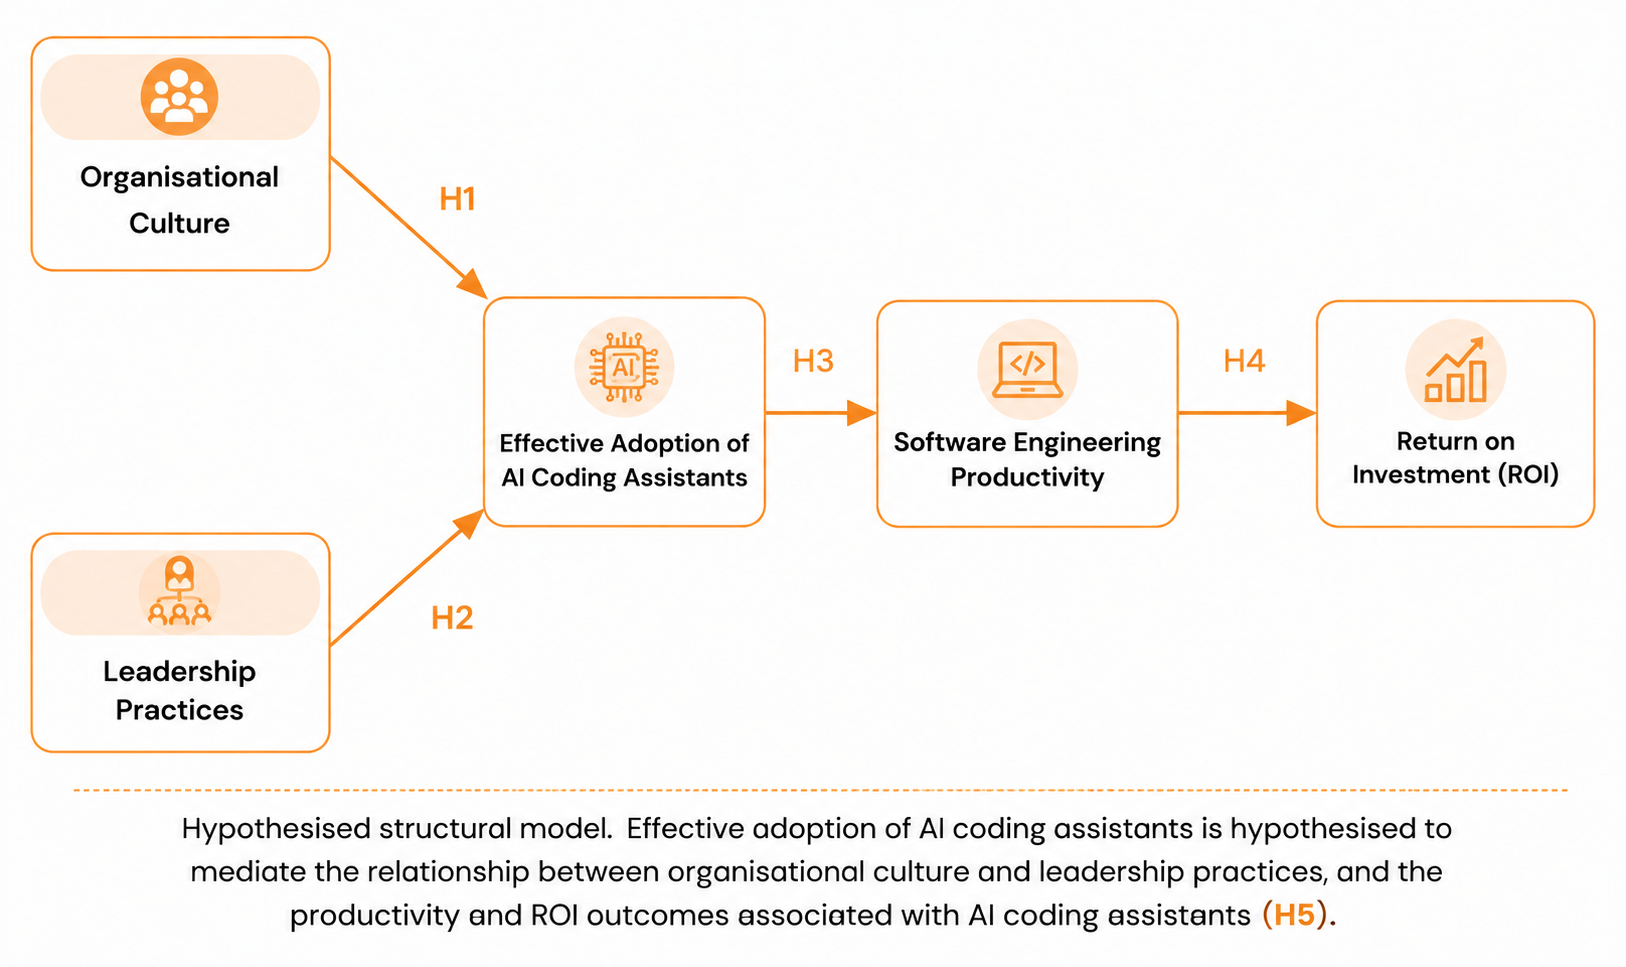
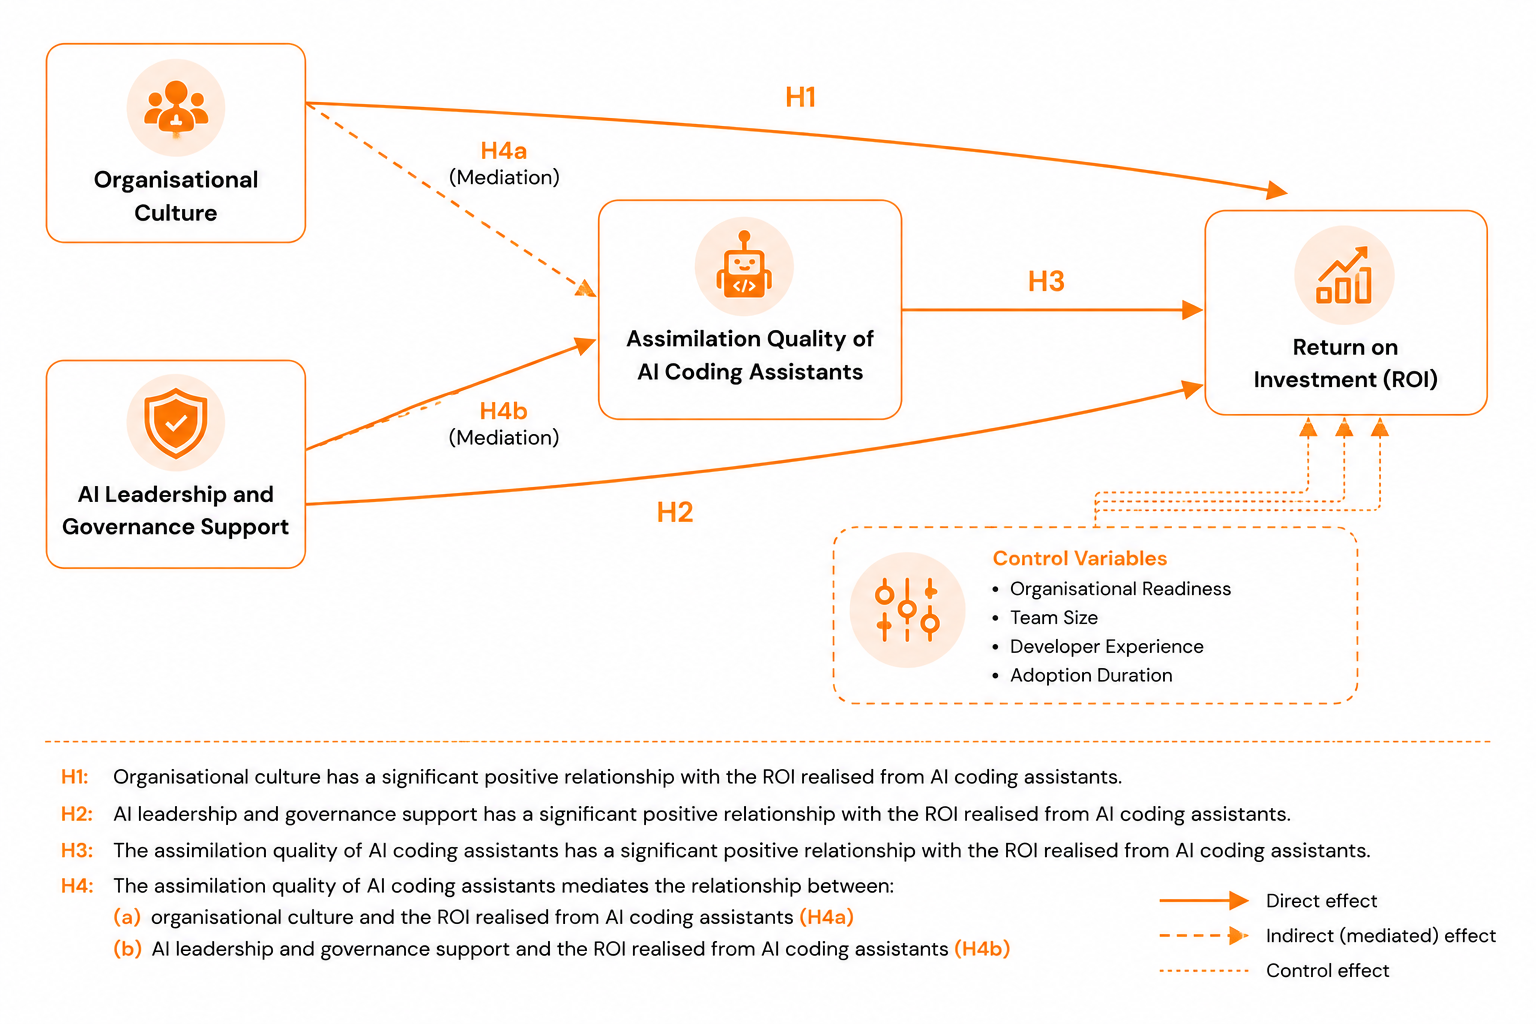
updated chapter 3

diff --git a/Dissertation Template v2026.03/ch3_methodology.tex b/Dissertation Template v2026.03/ch3_methodology.tex
@@ -24,7 +24,7 @@ When testing relationships between concepts, one must verify the relationships i
 \begin{itemize}
 	\item \textbf{Measuring latent variables}
 \end{itemize}
-Latent constructs are described as hypothetical concepts that cannot be measured using direct observations. However, multidimensional indicators show its significance. This research is utilising the termologу utilised in the technical literature and applies it to organisational culture, leadership style, and effectiveness of AI implementation, as all of them represent complex behaviour of an organisation. This implies that investigation of the mentioned constructs was possible due to utilising a structured questionnaire and special scales developed for this purpose \autocite{Hair2019}.
+Latent constructs are abstract concepts that cannot be measured directly, although they can be assessed through multiple indicators. In this study, organisational culture, leadership, and the assimilation quality of AI coding assistants were treated as latent constructs, as each represents complex organisational behaviour rather than a directly observable variable. Such constructs were measured through structured survey items and scales that had previously been validated for this purpose, and their measurement properties, indicator loadings, internal consistency, and convergent validity, were formally assessed as part of the structural equation model described in Section~\ref{sec:Data Analysis} \autocite{Hair2019}.
 
 \begin{itemize}
 	\item \textbf{Estimating relationships between variables}
@@ -61,28 +61,41 @@ Consistent with the conceptual framework and the post-positivist emphasis on tes
 
 These hypotheses reflect the study's central proposition that organisational culture and leadership are associated with the ROI realised from AI coding assistants, and that this association operates, in whole or in part, through how well the tools are assimilated into software engineering practice. Because H1 and H2 concern the overall association between each predictor and ROI, they were evaluated using the total effect estimated by the structural model (the sum of each predictor's direct effect on ROI and its indirect effect through assimilation quality), consistent with the mediation-testing logic set out in Section~\ref{sec:Data Analysis}; the direct and indirect components of this total effect were then examined separately to test H4. Organisational readiness, team size, developer experience, and adoption duration were entered into the structural model as control variables with direct paths to ROI (Section~\ref{sec:Control Variables}); consistent with their role as controls rather than as theorised predictors, no directional hypotheses were formulated for these paths. Figure~\ref{fig:hypothesised_model} presents the hypothesised model diagrammatically.
 
-\begin{figure}[htbp]
-	\centering
-	\resizebox{\linewidth}{!}{%
-		\begin{tikzpicture}[
-			construct/.style={draw, rounded corners=8pt, align=center, minimum width=2.8cm, minimum height=1.1cm, font=\small},
-			every node/.style={font=\small}
-			]
-			\node[construct] (OC) at (0,2.2) {Organisational\\Culture};
-			\node[construct] (LP) at (0,0) {AI Leadership and\\Governance Support};
-			\node[construct] (AQ) at (4.8,1.1) {Assimilation Quality of\\AI Coding Assistants};
-			\node[construct] (ROI) at (9.6,1.1) {Return on\\Investment (ROI)};
-			\node[construct, minimum width=4.2cm] (CTRL) at (9.6,-1.8) {Controls: Organisational Readiness,\\Team Size, Developer Experience,\\Adoption Duration};
+%\begin{figure}[htbp]
+%	\centering
+%	\resizebox{\linewidth}{!}{%
+%		\begin{tikzpicture}[
+%			construct/.style={draw, rounded corners=8pt, align=center, minimum width=2.8cm, minimum height=1.1cm, font=\small},
+%			every node/.style={font=\small}
+%			]
+%			\node[construct] (OC) at (0,2.2) {Organisational\\Culture};
+%			\node[construct] (LP) at (0,0) {AI Leadership and\\Governance Support};
+%			\node[construct] (AQ) at (4.8,1.1) {Assimilation Quality of\\AI Coding Assistants};
+%			\node[construct] (ROI) at (9.6,1.1) {Return on\\Investment (ROI)};
+%			\node[construct, minimum width=4.2cm] (CTRL) at (9.6,-1.8) {Controls: Organisational Readiness,\\Team Size, Developer Experience,\\Adoption Duration};
 			
-			\draw[->, thick] (OC) -- (AQ) node[midway, above, sloped] {H1};
-			\draw[->, thick] (LP) -- (AQ) node[midway, below, sloped] {H2};
-			\draw[->, thick] (AQ) -- (ROI) node[midway, above] {H3};
-			\draw[->, thick] (CTRL) -- (ROI);
-		\end{tikzpicture}%
-	}
-	\caption{Hypothesised model. Assimilation quality is hypothesised to mediate the relationship between organisational culture and AI leadership and governance support, and the ROI realised from AI coding assistants (H4). Organisational readiness, team size, developer experience, and adoption duration were entered as control variables with direct paths to ROI.}
-	\label{fig:hypothesised_model}
+%			\draw[->, thick] (OC) -- (AQ) node[midway, above, sloped] {H1};
+%			\draw[->, thick] (LP) -- (AQ) node[midway, below, sloped] {H2};
+%			\draw[->, thick] (AQ) -- (ROI) node[midway, above] {H3};
+%			\draw[->, thick] (CTRL) -- (ROI);
+%		\end{tikzpicture}%
+%	}
+%	\caption{Hypothesised model. Assimilation quality is hypothesised to mediate the relationship between organisational culture and AI leadership and governance support, and the ROI realised from AI coding assistants (H4). Organisational readiness, team size, developer experience, and adoption duration were entered as control variables with direct paths to ROI.}
+%	\label{fig:hypothesised_model}
+%\end{figure}
+
+% ------------------------------------------------------------------------------
+% Hypothesised_structural_model image
+% ------------------------------------------------------------------------------
+\begin{figure}[H]
+	\begin{center}
+		\includegraphics[width = 1\textwidth]{Images/Hypothesised_structural_model} % enter the filename here
+		\caption{hypothesised model} % enter the figure caption here
+		\label{fig:hypothesised_model} % enter the figure label here (for cross referencing)
+	\end{center}
 \end{figure}
+
+Hypothesised model. Assimilation quality is hypothesised to mediate the relationship between organisational culture and AI leadership and governance support, and the ROI realised from AI coding assistants (H4). Organisational readiness, team size, developer experience, and adoption duration were entered as control variables with direct paths to ROI.
 
 \section{Population and Sampling}
 \label{sec:Population and Sampling}
@@ -107,41 +120,29 @@ Following the requirement of the methodological guidance, which states that ther
 \label{sec:Measurement and Operationalisation}
 For each latent construct, measurement scales were created to ensure the construct validity \autocite{DeVellis2022}. A five-point Likert scale was used to measure each construct. As per the numeric coding system agreed for this analysis, responses were coded as 1 (Strongly Agree), 2 (Agree), 3 (Neither Agree nor Disagree), 4 (Disagree), and 5 (Strongly Disagree); for all items, the same direction was used, where a lower mean score means a stronger agreement. There is no influence of this coding option on the substantive conclusions obtained from the analysis; the reliability coefficients remain unaffected due to the uniform use of recoding and the correlation or path coefficient of having two constructs coded in the same way showcases the same sign; it is stressed in this section and in chapter four as well to clarify the interpretation of means and skewness statistics.
 
-
-
-
-
-
-
-
-
-
-
-
-
 \subsection{Organisational Culture}
-\label{sec:Organizational Culture}
-Organisational culture was assessed using adapted and validated scales addressing the following dimensions:
+\label{sec:Organisational Culture}
+\textbf{Organisational culture} was assessed using adapted and validated scales addressing the following dimensions:
 
 \begin{itemize}
 	\item \textbf{Psychological Safety}
 \end{itemize}
-Psychological safety refers to the degree of comfort felt by members of a group to experiment, question, and contribute ideas without fear of criticism. In software engineering teams using AI coding assistants such as GitHub Copilot, psychological safety enables developers to question the suggestions generated by the tool. Developers who feel safe experimenting with the tool are better placed to become proficient in its use and to draw effectively on generative AI. Literature on the use of generative AI in knowledge work indicates that productivity gains are more pronounced where workers engage with such tools collaboratively \autocite{Noy2023}.
+\textbf{Psychological safety} refers to the degree of comfort felt by members of a group to experiment, question, and contribute ideas without fear of criticism. In software engineering teams using AI coding assistants such as GitHub Copilot, psychological safety enables developers to question the suggestions generated by the tool. Developers who feel safe experimenting with the tool are better placed to become proficient in its use and to draw effectively on generative AI. Literature on the use of generative AI in knowledge work indicates that productivity gains are more pronounced where workers engage with such tools collaboratively \autocite{Noy2023}.
 
 \begin{itemize}
 	\item \textbf{Learning Orientation}
 \end{itemize}
-Learning orientation describes the emphasis an organisation places on continuous learning and skill development. As generative AI technologies are integrated into an organisation, developers need to build the skills required to work effectively with these tools. Organisations with a strong learning orientation are better placed to integrate generative AI successfully into their work processes. Empirical research on generative AI in professional settings has found that workers can achieve significant improvements in task efficiency through engagement with such technologies \autocite{Brynjolfsson2025}.
+The \textbf{learning orientation} refers to how much the organisation values continual learning and development of skills. In an organisation that is implementing generative AI tools, the members will need to develop the necessary skills to work with these technologies effectively. Thus, organisations that have a strong learning orientation possess a higher chance to be able to implement generative AI successfully. Empirical studies show that generative AI has a high potential to increase productivity at work due to its application by employees' on their jobs \autocite{Brynjolfsson2025}.
 
 \begin{itemize}
 	\item \textbf{Knowledge Sharing}
 \end{itemize}
-Knowledge sharing refers to the exchange of information and expertise among members of a team. In teams that use AI coding assistants, this typically involves sharing knowledge of prompts, debugging approaches, and best practice for using the tool, which in turn enables the team to use generative AI more effectively. Empirical research on the practical use of AI coding assistants suggests that development teams rely on such knowledge sharing to use the tools efficiently \autocite{Sergeyuk2025}.
+\textbf{Knowledge Sharing} refers to the transfer of knowledge and skills among the members of a team. In teams utilising AI coding assistants, this generally involves the transfer of knowledge related to prompts, methods of debugging and best practices for applying the tool, which in turn allows the team to take advantage of generative AI. Empirical studies show that software development teams depend on such knowledge sharing to use the tools wisely \autocite{Sergeyuk2025}.
 
 \begin{itemize}
 	\item \textbf{Digital Openness}
 \end{itemize}
-Digital openness refers to the willingness of organisations and their people to accept new digital technologies. Organisations that display digital openness are more likely to accept generative AI tools and to adapt their processes accordingly. In software engineering, digital openness is likely to encourage the adoption of AI coding assistants and to support developers in exploring new ways of improving their productivity.
+\textbf{Digital openness} refers to the willingness of organisations and their people to accept new digital technologies. Organisations that display digital openness are more likely to accept generative AI tools and to adapt their processes accordingly. In software engineering, digital openness is likely to encourage the adoption of AI coding assistants and to support developers in exploring new ways of improving their productivity.
 
 The organisational culture scale comprised seven items covering experimentation, knowledge sharing, learning orientation, collaboration, innovation support, responsible use, and the evaluation of measurable value, and was measured using the five-point Likert scale described above \autocite{Bryman2016}.
 
@@ -152,26 +153,42 @@ AI leadership and governance support was assessed using a four-item scale coveri
 \begin{itemize}
 	\item \textbf{Executive Sponsorship}
 \end{itemize}
-Executive sponsorship describes the extent to which an organisation's top leaders publicly support and promote the adoption of generative AI technologies, and communicate clear direction on how the tools should be used in development work. When leaders visibly endorse AI coding assistants and related tools, this signals to the wider workforce that the technology is of strategic importance and aligned with organisational objectives. Studies examining generative AI adoption in knowledge-intensive tasks have shown that workers are more likely to engage with AI technologies and explore new ways of working when such tools receive visible organisational support \autocite{Noy2023}. Similarly, research on AI adoption more broadly has found that executive sponsorship helps ensure that adoption is coordinated effectively and that employees adopt new technologies with greater confidence \autocite{Brynjolfsson2025}.
+
+\textbf{Executive sponsorship} refers to the degree to which leaders of the organisation advocate for the use of generative AIs and make it clear how they should be used in the development. When the top leaders show their support for AI programming assistants, it provides assurance to the employees' that this technology is of importance and meets the expectations of the organisation. Research in the field of the use of generative AI in complex processes has shown that workers feel more confident in using AI technologies with support from the organisation \autocite{Noy2023}. Research on the phenomenon of the use of AI has shown that executive sponsorship allows for the orderly adoption of new technologies across departments \autocite{Brynjolfsson2025}.
 
 \begin{itemize}
 	\item \textbf{Metric Alignment}
 \end{itemize}
-Metric alignment refers to the clarity with which leaders communicate the business value expected from AI coding assistants, so that performance expectations are aligned with the intended outcomes of adoption. Research on generative AI productivity indicates that organisational outcomes become tangible once performance indicators are aligned with AI usage and task efficiency \autocite{Noy2023}.
+In this context, \textbf{metric alignment} is defined as the degree to which business leaders express the expected value that will come from using an AI coding assistant, in order to ensure that the performance expectations meet the objectives set before AI adoption. Studies on generative AI productivity show that organisational outcomes are realised only if performance indicators match AI usage efficiency and task accomplishment. The alignment of metrics involves business leaders indicating the expected benefits from the use of an AI coding assistant and simultaneously managing performance expectations in light of these benefits \autocite{Noy2023}.
 
 \begin{itemize}
 	\item \textbf{Resource Support}
 \end{itemize}
-Resource support refers to the financial, technical, and human resources committed to the successful deployment of AI technologies. Deploying AI coding assistants requires investment in developer training, integration into development environments, infrastructure, and ongoing monitoring; where this support is absent, organisations risk failing to realise the productivity benefits the tools can offer. \textcite{Babina2024} argue that sufficient resource support is crucial to the productive deployment of AI coding assistants.
+\textbf{Resource support} is defined as the funding, know-how, and labour that must be allocated for successful implementation of AI solutions. For instance, the successful use of AI coding assistants requires investment in training developers, integration into software development environments as well as in infrastructure and constant analysis of the results of AI coding assistants' implementation. \textcite{Babina2024} states that companies would not benefit from using such tools without enough resource support.
 
 \begin{itemize}
 	\item \textbf{Governance Clarity}
 \end{itemize}
-Governance clarity refers to the extent to which leaders ensure that governance, risk, and quality concerns related to AI coding assistants are actively addressed. Generative AI tools such as Copilot carry significant governance implications for intellectual property, security, and software quality assurance, and organisations therefore need well-defined governance structures to frame the use of AI-generated code and to establish clear accountability. Research on AI governance has found that organisations with well-defined structures are better placed to manage technology risk while still realising the associated productivity benefits \autocite{Hradecky2022}.
+\textbf{Governance clarity} refers to the extent to which leaders ensure that governance, risk, and quality concerns related to AI coding assistants are actively addressed. Generative AI tools such as Copilot carry significant governance implications for intellectual property, security, and software quality assurance, and organisations therefore need well-defined governance structures to frame the use of AI-generated code and to establish clear accountability. Research on AI governance has found that organisations with well-defined structures are better placed to manage technology risk while still realising the associated productivity benefits \autocite{Hradecky2022}.
 
 \subsection{Assimilation Quality of AI Coding Assistants}
 \label{sec:Effective Adoption}
-Assimilation quality refers to the extent to which AI coding assistants are integrated into software engineering work processes and used productively by software engineers, rather than merely installed. It concerns how well the tools are embedded in day-to-day workflows, the consistency with which they are used, the extent to which AI-generated output is appropriately reviewed, and the degree to which their use is supported by governance and quality control practices. Empirical studies on AI coding assistants point to their potential to increase developer productivity, though the scale of that increase depends on how fully the tool is assimilated into existing work processes \autocite{Brynjolfsson2025}. This construct was assessed using an eight-item scale covering the following indicators:
+The quality of assimilation refers to the level to which coding assistants are integrated in the activities of a software engineer in a productive way as opposed to simply being installed. In this regard this concept encompasses how well the instruments are incorporated into daily workflow, the regularity of the usage, the extent to which AI-produced output is scrutinized and the degree to which the usage of the technology is in compliance with governance and quality assurance standards. Some empirical studies related to coding assistants reveal that they can boost developer’s productivity, although the magnitude of productivity increase depends on the degree of technology integration into the processes \autocite{Brynjolfsson2025}. The construct under discussion is based on the eight-item measure that addresses the following aspects:
+
+
+
+
+
+
+
+
+
+
+
+
+
+
+
 
 \begin{itemize}
 	\item \textbf{Workflow Integration}

diff --git a/Dissertation Template v2026.03/main.tex b/Dissertation Template v2026.03/main.tex
@@ -113,7 +113,8 @@ and completed the survey to make this study possible.
 % ------------------------------------------------------------------------------
 \phantomsection
 \addcontentsline{toc}{chapter}{References}
-\renewcommand\bibname{References}
+\renewcommand
+\bibname{References}
 \printbibliography
 
 % ------------------------------------------------------------------------------
